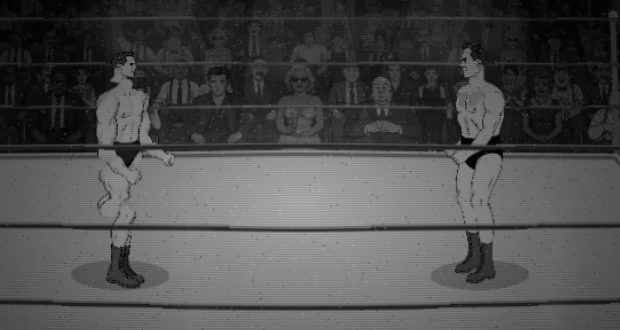
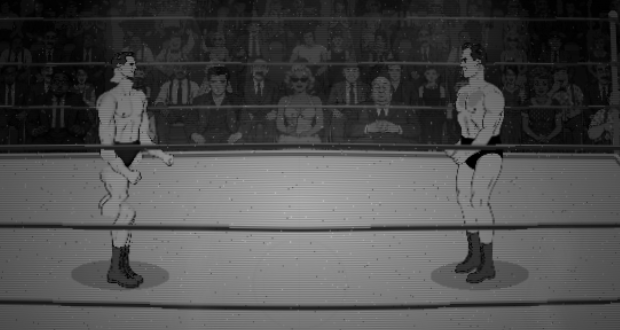
Correct two errors of my own: limb widths, and a false bake flag on shins
Both found on a re-check of last session's work, not by anything failing.

1. THE CANDIDATE'S LIMB WIDTHS WERE WRONG.

I claimed each box.w was "solved so the on-screen ink width equals shipped
Lou's". It was not. Skeleton._placePart renders a part at box.w * s * growth,
growth = 1/(1-jointPivotFrac), and the width derivation ignored that factor on
both sides of the comparison.

The heights were right, because box.h is solved through the same growth and I
did account for it there -- confirmed by measuring the live rig: the candidate
renders 204.1px against shipped Lou's 204.9px, a 0.4% difference. But every limb
came out wider than the shipped limb it was matching:

  upperArm  +21.8%    forearm  +13.5%    thigh  +11.2%    shin  +3.2%

Corrected box.w values, and the live comparison images re-shot.

The direction matters for reading Derek's verdict. The error made the candidate
THICKER than intended, so "too lean and too tall" was reached in spite of it,
not because of it: the height was never inflated, and the art is leaner than the
screenshots he judged. His verdict stands and is if anything understated.

2. THE NEW BAKE CHECK GAVE A FALSE POSITIVE ON SHINS.

art:map-candidate fell back to averaging the distal ink for any part with no
declared distal anchor. For a shin that ink is the BOOT, and a boot's toe juts
forward, so a perfectly straight shin reads as bent:

  part        knee->ankle   knee->boot mass   knee->sole
[…]

diff --git a/src/characters/thesz_front3q_r1.js b/src/characters/thesz_front3q_r1.js
@@ -68,11 +68,24 @@
 // therefore about the ART, not about size.
 //
 //   upperArm  shoulder->elbow  68.0 px   ink w 26.7 px
-//   forearm   elbow->hand      49.0 px   ink w 16.7 px
+//   forearm   elbow->hand      49.0 px   ink w 18.0 px
 //   thigh     hip->knee        49.0 px   ink w 36.4 px
-//   shin      knee->sole       86.0 px   ink w 34.2 px
+//   shin      knee->sole       86.0 px   ink w 36.1 px
 //   torso     ink h           108.1 px   ink w 60.9 px
 //   head      headScale       0.5457     ink w 38.5 px
+//
+// CORRECTED 2026-09-22. The first binding got the widths wrong. _placePart
+// renders a part at box.w * s * GROWTH, growth = 1/(1-jointPivotFrac), and the
+// width derivation ignored that factor on both sides of the comparison. The
+// heights were right -- box.h is solved through the same growth and the
+// rendered figure measured 204.2px against shipped Lou's 204.9px -- but every
+// limb came out 3.2% to 21.8% WIDER than the shipped limb it was supposed to
+// match: upperArm +21.8, forearm +13.5, thigh +11.2, shin +3.2.
+//
+// Worth stating plainly because it cuts against the review it fed: the error
+// made the candidate THICKER than intended, so Derek's "too lean" verdict was
+// reached in spite of it, not because of it. The art is leaner than those
+// screenshots showed.
 //
 // SCREEN-SPACE OFFSETS ARE ALL ZERO, and that is a deliberate reporting choice
 // rather than a tuning result. Shipped Lou's armOffset/legOffset/forearm/shin
@@ -116,7 +129,7 @@ export const theszFront3qR1 = {
         armOffsetY: 0,
         upperArm: {
             key: 'thesz_f3q_upper_arm',
-            box: { w: 63.77, h: 79.31 },
+            box: { w: 52.37, h: 79.31 },
             jointPivotFrac: 0.178788,
             distalAnchorFrac: { u: 0.517094, v: 0.882915 },
             pivotOffsetFrac: 0.017094,
@@ -125,13 +138,13 @@ export const theszFront3qR1 = {
         // candidate's separately authored near and far hands are both used.
         nearForearm: {
             key: 'thesz_f3q_near_forearm',
-            box: { w: 45.52, h: 49 },
+            box: { w: 40.10, h: 49 },
             jointPivotFrac: 0.182891,
             pivotOffsetFrac: -0.007407,
         },
         farForearm: {
             key: 'thesz_f3q_far_forearm',
-            box: { w: 48.04, h: 49 },
+            box: { w: 42.12, h: 49 },
             jointPivotFrac: 0.186747,
             pivotOffsetFrac: 0.001931,
         },
@@ -141,7 +154,7 @@ export const theszFront3qR1 = {
         farForearmOffsetY: 0,
         thigh: {
             key: 'thesz_f3q_thigh',
-            box: { w: 43.80, h: 52.58 },
+            box: { w: 39.40, h: 52.58 },
             jointPivotFrac: 0.100490,
             pivotOffsetFrac: -0.033784,
         },
@@ -153,14 +166,14 @@ export const theszFront3qR1 = {
         nearLegTilt: 0,
         nearShin: {
             key: 'thesz_f3q_near_shin',
-            box: { w: 39.03, h: 88.97 },
+            box: { w: 37.80, h: 88.97 },
             jointPivotFrac: 0.084706,
             pivotOffsetFrac: -0.105000,
             soleAnchorFrac: { u: 0.630000, v: 0.969412 },
         },
         farShin: {
             key: 'thesz_f3q_far_shin',
-            box: { w: 38.76, h: 89.19 },
+            box: { w: 37.32, h: 89.19 },
             jointPivotFrac: 0.090000,
             pivotOffsetFrac: -0.173267,
             soleAnchorFrac: { u: 0.643564, v: 0.967500 },

diff --git a/tests/limbBakeStraightening.test.js b/tests/limbBakeStraightening.test.js
@@ -151,3 +151,46 @@ test('only the parts measured to be bent are straightened', () => {
     assert.equal(STRAIGHTEN.near_forearm, 'distalInk',
         'the forearms declare no distal anchor, so the ink is the only axis available');
 });
+
+test('a shin is measured on its declared ankle, not on its boot', () => {
+    // The distal-ink fallback is wrong for a shin and quietly so: it averages
+    // the boot, whose toe juts forward, so a perfectly straight shin reports a
+    // lean. On the real parts knee->ankle is -1.6 and 0.0 degrees while
+    // knee->boot-mass reads 2.4 and 5.2 and knee->sole reads 7.1 and 10.3. The
+    // first version of the authoring check used the fallback and flagged
+    // far_shin -- the straightest segment in the whole candidate -- as bent.
+    const w = 200;
+    const h = 420;
+    const rgba = new Uint8Array(w * h * 4);
+    const alpha = new Uint8Array(w * h);
+    const paint = (x, y) => {
+        if (x < 0 || y < 0 || x >= w || y >= h) return;
+        const i = y * w + x;
+        alpha[i] = 255;
+        rgba[i * 4] = 200; rgba[i * 4 + 1] = 150; rgba[i * 4 + 2] = 140; rgba[i * 4 + 3] = 255;
+    };
+    // A perfectly vertical shaft from the knee to the ankle...
+    const kneeX = 80;
+    const kneeY = 36;
+    const ankleY = 300;
+    for (let y = kneeY; y <= ankleY; y++) {
+        for (let d = -18; d <= 18; d++) paint(kneeX + d, y);
+    }
+    // ...and a boot below it whose toe juts well forward.
+    for (let y = ankleY; y < h - 10; y++) {
+        for (let d = -20; d <= 70; d++) paint(kneeX + d, y);
+    }
+    const image = { w, h, rgba, alpha };
+    const landmark = {
+        jointPivotFrac: { u: kneeX / w, v: kneeY / h },
+        sourcePixel: { knee: { x: kneeX, y: kneeY }, ankle: { x: kneeX, y: ankleY } },
+    };
+
+    const viaAnkle = bakedAxis(image, landmark, 'ankle') * DEG;
+    const viaInk = bakedAxis(image, landmark, 'distalInk') * DEG;
+
+    assert.ok(Math.abs(viaAnkle) < 0.01,
+        `the shaft is vertical, so the bone axis is 0; got ${viaAnkle.toFixed(2)}`);
+    assert.ok(viaInk > 3,
+        `the boot must be what biases the ink proxy; got ${viaInk.toFixed(2)}`);
+});

diff --git a/AI_HANDOFF_ENTRIES/2026-09-15-derek-front3q-verdict-and-next-generation-brief.md b/AI_HANDOFF_ENTRIES/2026-09-15-derek-front3q-verdict-and-next-generation-brief.md
@@ -45,7 +45,7 @@ the running game.
 | --- | --- | --- |
 | 1 | A broader, stockier Lou silhouette | `art:proofs --compare` against the Pass-A master at 265/209/154, plus Derek's eye. The candidate must not read leaner than the master beside it. |
 | 2 | A true three-quarter head matching the body | Removes the `crossViewPartReuse` entry for `head`/`front3q`. Until the art exists that entry stays and the borrow stays declared. |
-| 3 | Limb paintings on neutral, straight bone axes — no baked elbow or knee flex | `art:map-candidate --landmarks` reports the bone axis per part; **BAKED BENT past 3 degrees**. v3's arms measured 13.4–19.6. |
+| 3 | Limb paintings on neutral, straight bone axes — no baked elbow or knee flex | `art:map-candidate --landmarks` reports the bone axis per part; **BAKED BENT past 3 degrees**. v3's arms measured 13.4–19.6. The axis comes from the declared distal anchor where one exists, the declared ankle for shins, and only then from the distal ink — see the correction below for why the ink is wrong for a booted shin. |
 | 4 | Generous unoutlined overlap material on both sides of every elbow and knee | `art:measure-joints` — `interior_bg_px` at articulation extremes. |
 | 5 | Rounded anatomical joint transitions, no pale caps or flat attachment faces | `art:measure-joints` — `sharpest_deg` ≥ 35 and `straight_run_px` ≤ 18, plus the assembled proof at full resolution, where the pale caps are plainly visible. |
 | 6 | Clean near/far perspective differences | Visual, on the assembled proof. |
@@ -78,11 +78,28 @@ unusable. The rig articulates the far elbow and far knee independently, and no
 offset bends a single painting in the middle. That is what the six-part
 `production-limb-redesign/v1` board did, and it maps only 2 of its 6 parts.
 
-### One requirement the control still fails
+### Correction (2026-09-22): the control does NOT fail requirement 3
 
-`far_shin` measures a 5.2-degree bake. The straightener deliberately left the
-legs alone as near-neutral, and 5.2 is past requirement 3's threshold. The next
-generation should bring every segment, legs included, to roughly zero.
+This section previously said `far_shin` measured a 5.2-degree bake and that the
+control still failed the neutral-bake requirement. **That was my measurement
+error, not a defect in the art.**
+
+The check fell back to averaging the distal ink for any part with no declared
+distal anchor. For a shin that ink is the BOOT, whose toe juts well forward, so
+a perfectly straight shin reads as bent. Measured on the declared ankle instead:
+
+| part | knee->ankle (the bone) | knee->boot mass | knee->sole |
+| --- | ---: | ---: | ---: |
+| near_shin | -1.6 | 2.4 | 7.1 |
+| far_shin | **0.0** | 5.2 | 10.3 |
+
+`far_shin` is the straightest segment in the entire candidate. The check now
+prefers the declared ankle for shins and only falls back to the ink for the
+forearms, which declare no distal anchor and whose fist does sit roughly on the
+bone axis. All eight of the control's parts now read neutral.
+
+The requirement itself stands unchanged, and v3's four bent arms are still
+correctly flagged at 9.3-18.3 degrees.
 
 ## What is preserved
 
@@ -103,7 +120,9 @@ generation should bring every segment, legs included, to roughly zero.
 
 ## Verification at the point of the verdict
 
-- `npm test` — 505/505 on Node 22.23.1, 0 skipped, real-art tests RAN.
+- `npm test` — 506/506 on Node 22.23.1, 0 skipped, real-art tests RAN
+  (505/505 at the time of the verdict; one test added by the 2026-09-22
+  correction above).
 - `npm run build` — clean.
 - `npm run rig:validate` — clean for george, thesz, thesz-front3q-r1.
 - `npm run rig:certify` — **exit 0, no architecture-class findings.** `refrig`

diff --git a/AI_HANDOFF.md b/AI_HANDOFF.md
@@ -129,6 +129,24 @@ rows** (TRUNKS BAKED ON past 20% — the six-part board was 52–74%). It also
 states the decomposition the rig can consume: **eight parts, not twelve**, with
 one shared upper arm and one shared thigh.
 
+**Two corrections to my own work, found 2026-09-22 on a re-check and fixed.**
+Both are recorded in full in the entries they belong to.
+
+1. **The candidate's limb widths were wrong.** `_placePart` renders a part at
+   `box.w * s * growth`, `growth = 1/(1-jointPivotFrac)`, and the width
+   derivation ignored that factor. Heights were solved through the same growth
+   and were right — the rendered figure measures 204.1px against shipped Lou's
+   204.9px — but every limb rendered 3.2% to 21.8% wider than the shipped limb
+   it was matching. The error made the candidate **thicker**, so Derek's "too
+   lean" verdict was reached in spite of it; the art is leaner than the
+   screenshots he saw. Fixed, and the live comparison images re-shot.
+2. **The new bake check gave a false positive on shins.** It fell back to
+   averaging the distal ink where no distal anchor is declared, and for a shin
+   that ink is the boot, whose toe juts forward. It flagged `far_shin` at 5.2
+   degrees; measured on the declared ankle, `far_shin` is **0.0** — the
+   straightest segment in the candidate. The check now prefers the declared
+   ankle for shins. v3's four bent arms are still correctly flagged.
+
 The record of how the candidate was built and what it measured follows.
 
 **Built and reviewed (2026-09-15).** See

diff --git a/AI_HANDOFF_ENTRIES/2026-09-15-claude-front3q-replacement-limb-candidate.md b/AI_HANDOFF_ENTRIES/2026-09-15-claude-front3q-replacement-limb-candidate.md
@@ -135,6 +135,19 @@ Every geometry number is derived, none hand-tuned: each `box.h` solved so the
 bone span underneath equals shipped Lou's, each `box.w` so the on-screen ink
 width does, so the comparison is about the art rather than about size.
 
+**Correction (2026-09-22).** The heights were right; **the widths were not.**
+`_placePart` renders a part at `box.w * s * growth`, `growth =
+1/(1-jointPivotFrac)`, and the width derivation ignored that factor on both
+sides of the comparison. `box.h` is solved through the same growth and was
+correct — the rendered figure measures 204.1px against shipped Lou's 204.9px —
+but every limb came out wider than the shipped limb it was matching: upperArm
++21.8%, forearm +13.5%, thigh +11.2%, shin +3.2%. Fixed, and the live
+comparison images were re-shot.
+
+The direction matters for reading the verdict: the error made the candidate
+**thicker** than intended, so Derek reached "too lean" in spite of it. The art
+is leaner than the screenshots he saw.
+
 **Hip sockets are omitted on purpose.** `Skeleton.js:549` switches a character to
 the authored dynamic-pelvis leg path the moment its torso declares `nearHip` and
 `farHip`. Declaring the candidate's measured ones would have made this a

diff --git a/FRONT3Q_CANDIDATE_EVIDENCE/README.md b/FRONT3Q_CANDIDATE_EVIDENCE/README.md
@@ -68,6 +68,14 @@ onto both thighs belongs to the *six-part* `production-limb-redesign/v1` board
 (73.8% dark at the thigh top), not to this candidate (3.9%, outline only). And
 the pelvis findings are properties of layers shipped Lou does not have.
 
+**The `08`–`12` images were re-shot 2026-09-22** after a width error was found
+in the binding: `_placePart` scales a part by `1/(1-jointPivotFrac)` and the
+derivation ignored it, so every limb rendered 3-22% wider than the shipped limb
+it was matching. Heights were unaffected and remain within 0.4% of shipped Lou.
+The error made the candidate **thicker** than intended, so the "too lean"
+verdict was reached in spite of it; the corrected images show the art leaner
+still.
+
 **One thing in `08`–`12` is the wiring, not the art.** Every screen-space offset
 on the candidate is zero, deliberately, because shipped Lou's were tuned against
 different paintings. That includes `legOffsetX` and `nearLegTilt`, which are what
